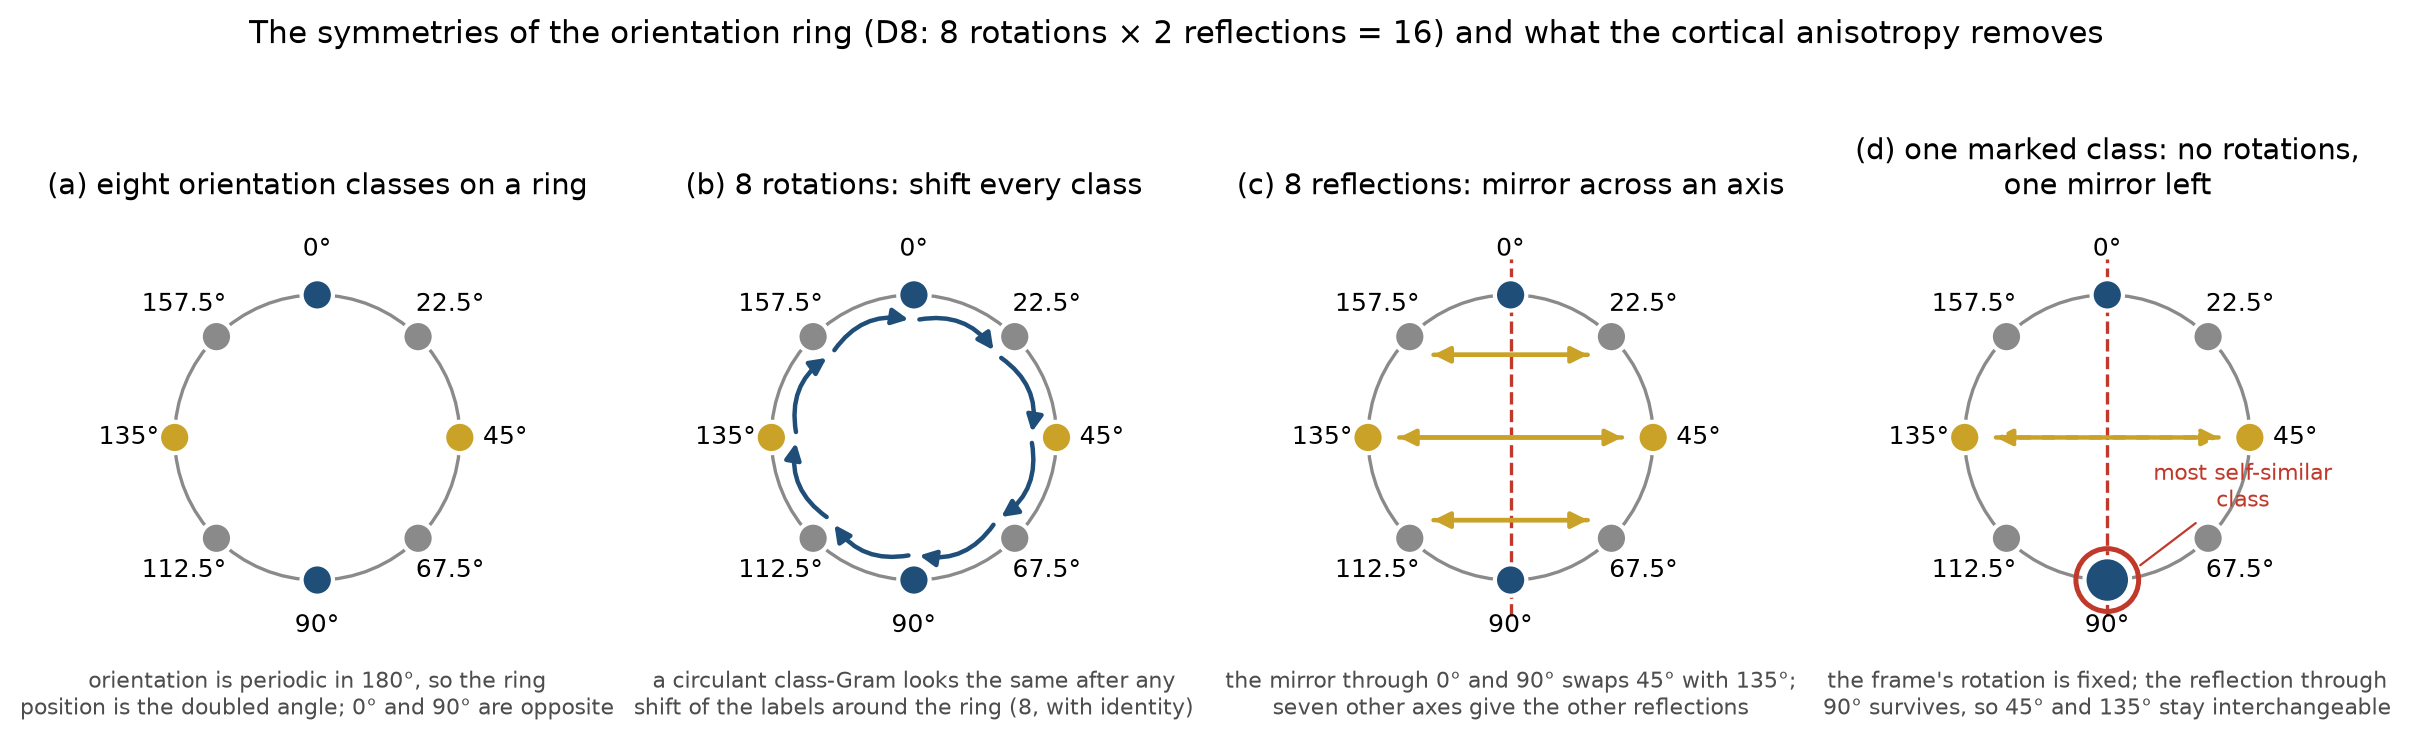
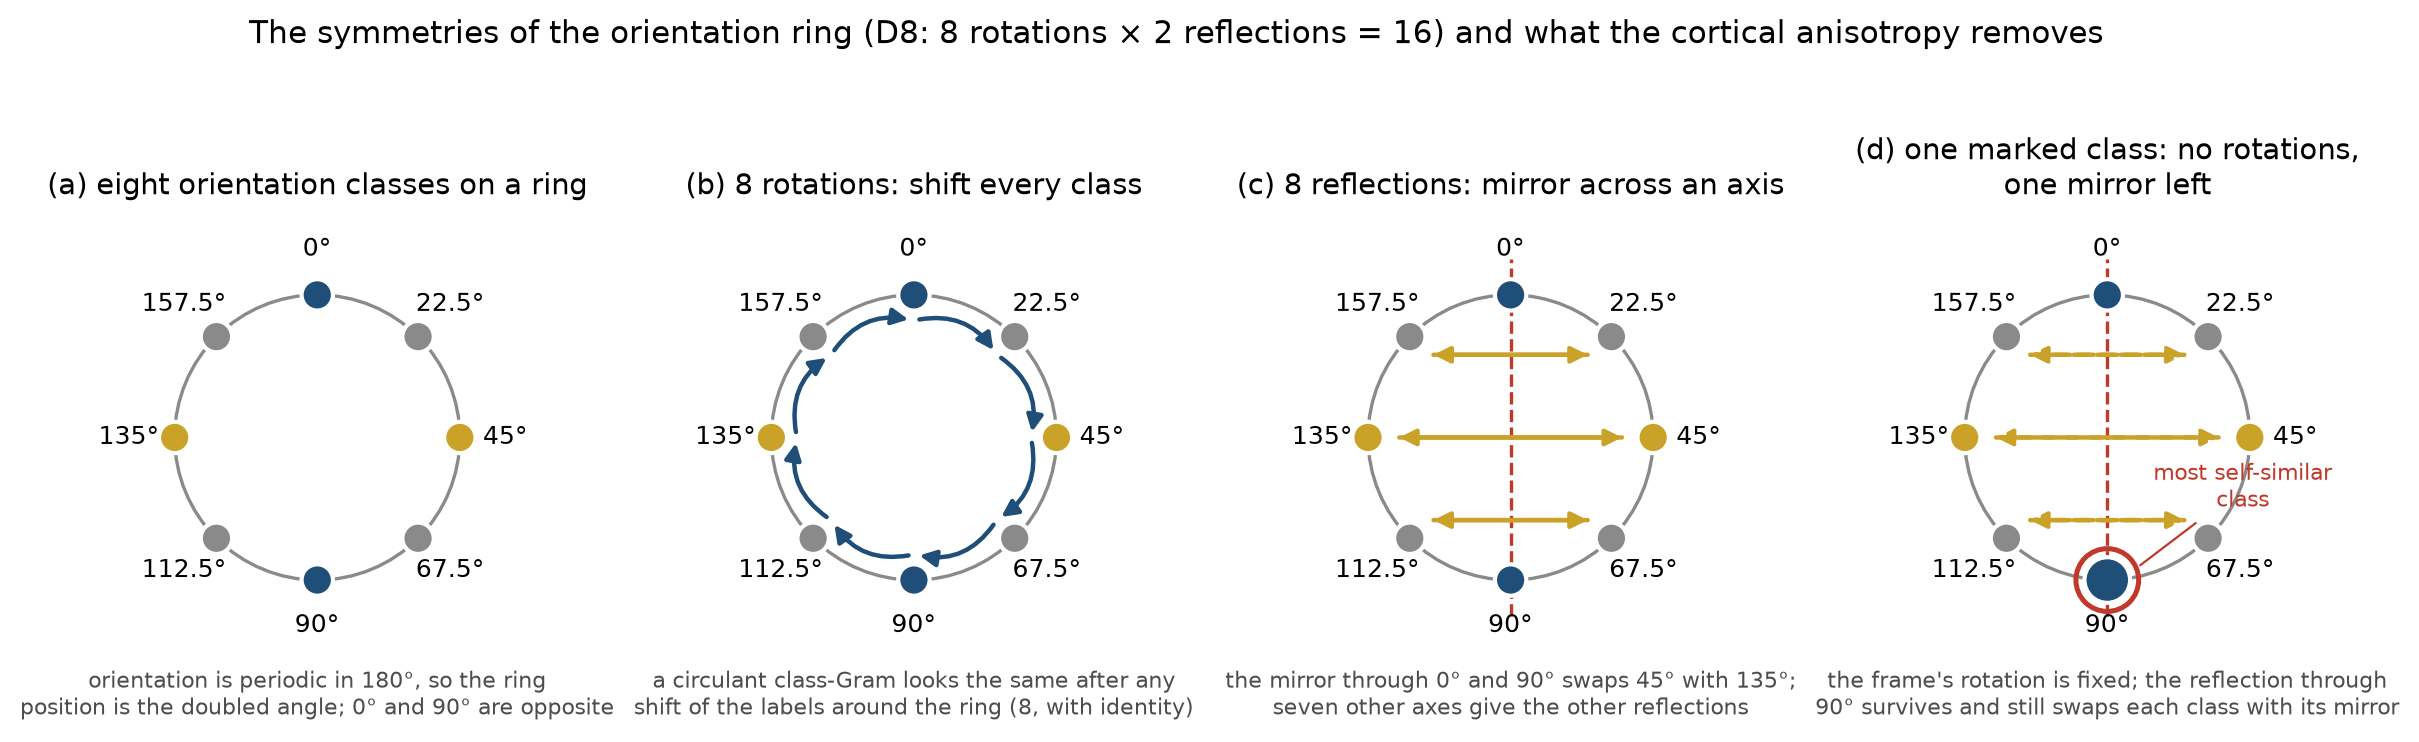
D8 diagram: panel (d) shows all three pairs swapped by the surviving reflection
Claude-Session: https://claude.ai/code/session_01LETEXXu2w15URiHQ6at3NF

diff --git a/microns_ambiguity/d8_figure.py b/microns_ambiguity/d8_figure.py
@@ -73,8 +73,9 @@ def main():
     ax.annotate("most self-similar\nclass", xy=(POS[4][0] + 0.2, POS[4][1] + 0.08), xytext=(0.95, -0.35), fontsize=8, color=MARK, ha="center", va="center",
                 arrowprops=dict(arrowstyle="-", color=MARK, lw=0.8), zorder=5)
     ax.plot([0, 0], [-1.25, 1.25], color=MARK, lw=1.2, ls="--", zorder=1)
-    arc_arrow(ax, 2, 6, OBL, style="--", rad=0.0); arc_arrow(ax, 6, 2, OBL, style="--", rad=0.0)
-    ax.text(0, -1.62, "the frame's rotation is fixed; the reflection through\n90° survives, so 45° and 135° stay interchangeable",
+    for a_, b_ in [(1, 7), (2, 6), (3, 5)]:
+        arc_arrow(ax, a_, b_, OBL, style="--", rad=0.0); arc_arrow(ax, b_, a_, OBL, style="--", rad=0.0)
+    ax.text(0, -1.62, "the frame's rotation is fixed; the reflection through\n90° survives and still swaps each class with its mirror",
             ha="center", va="top", fontsize=8, color="0.3")
 
     fig.suptitle("The symmetries of the orientation ring (D8: 8 rotations × 2 reflections = 16) and what the cortical anisotropy removes",
